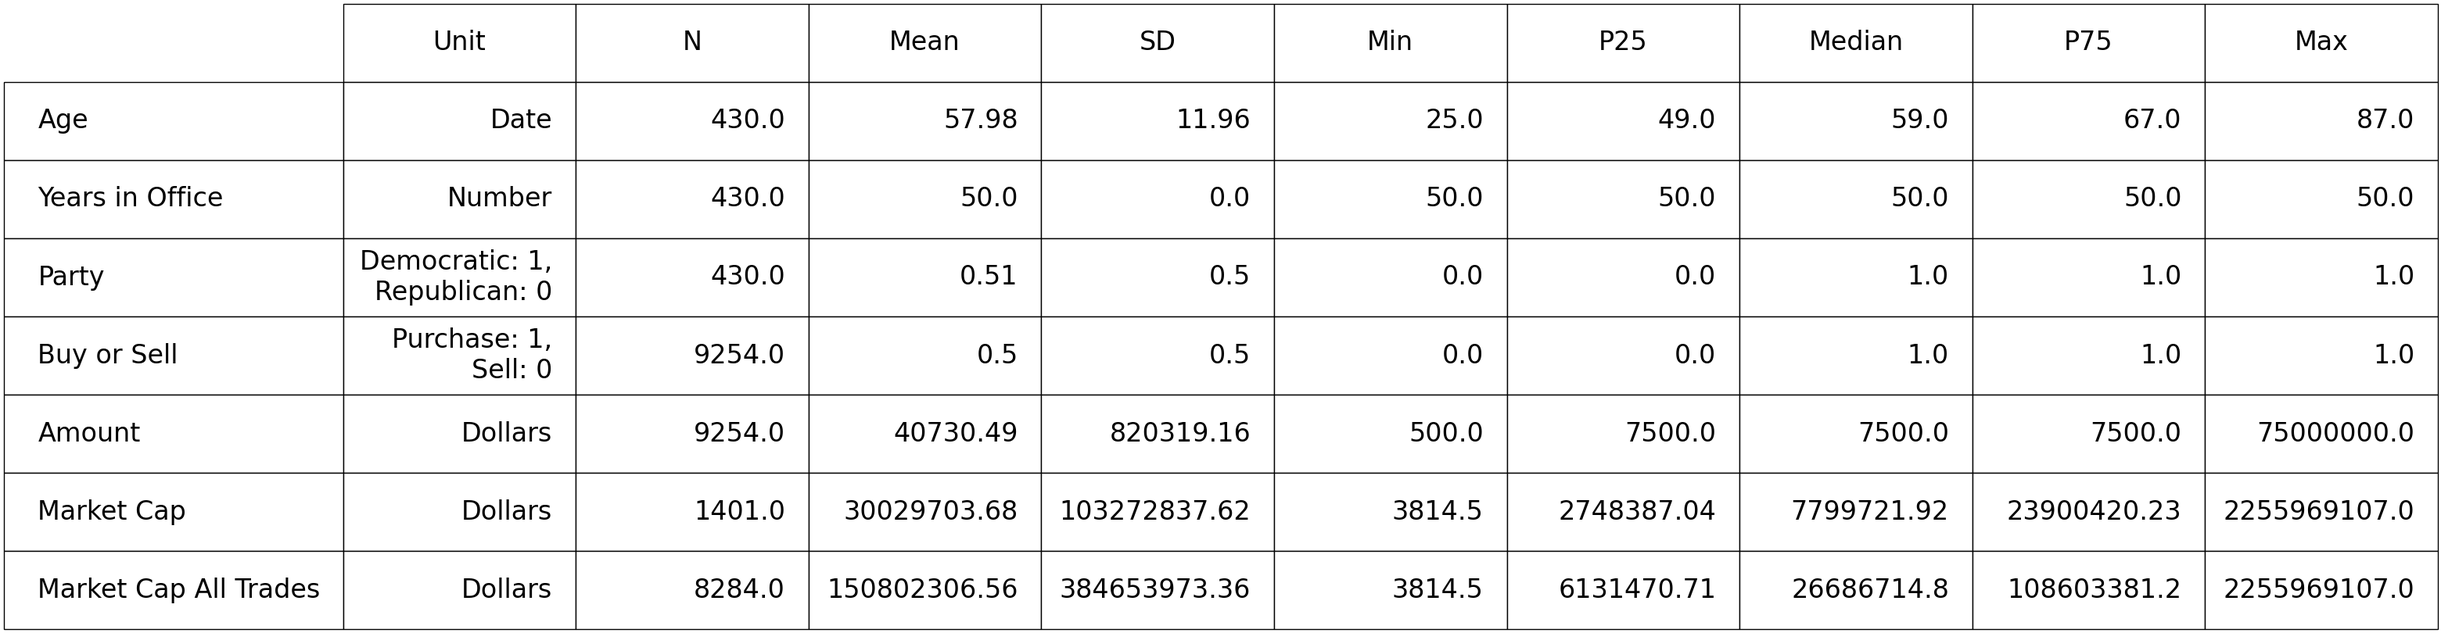
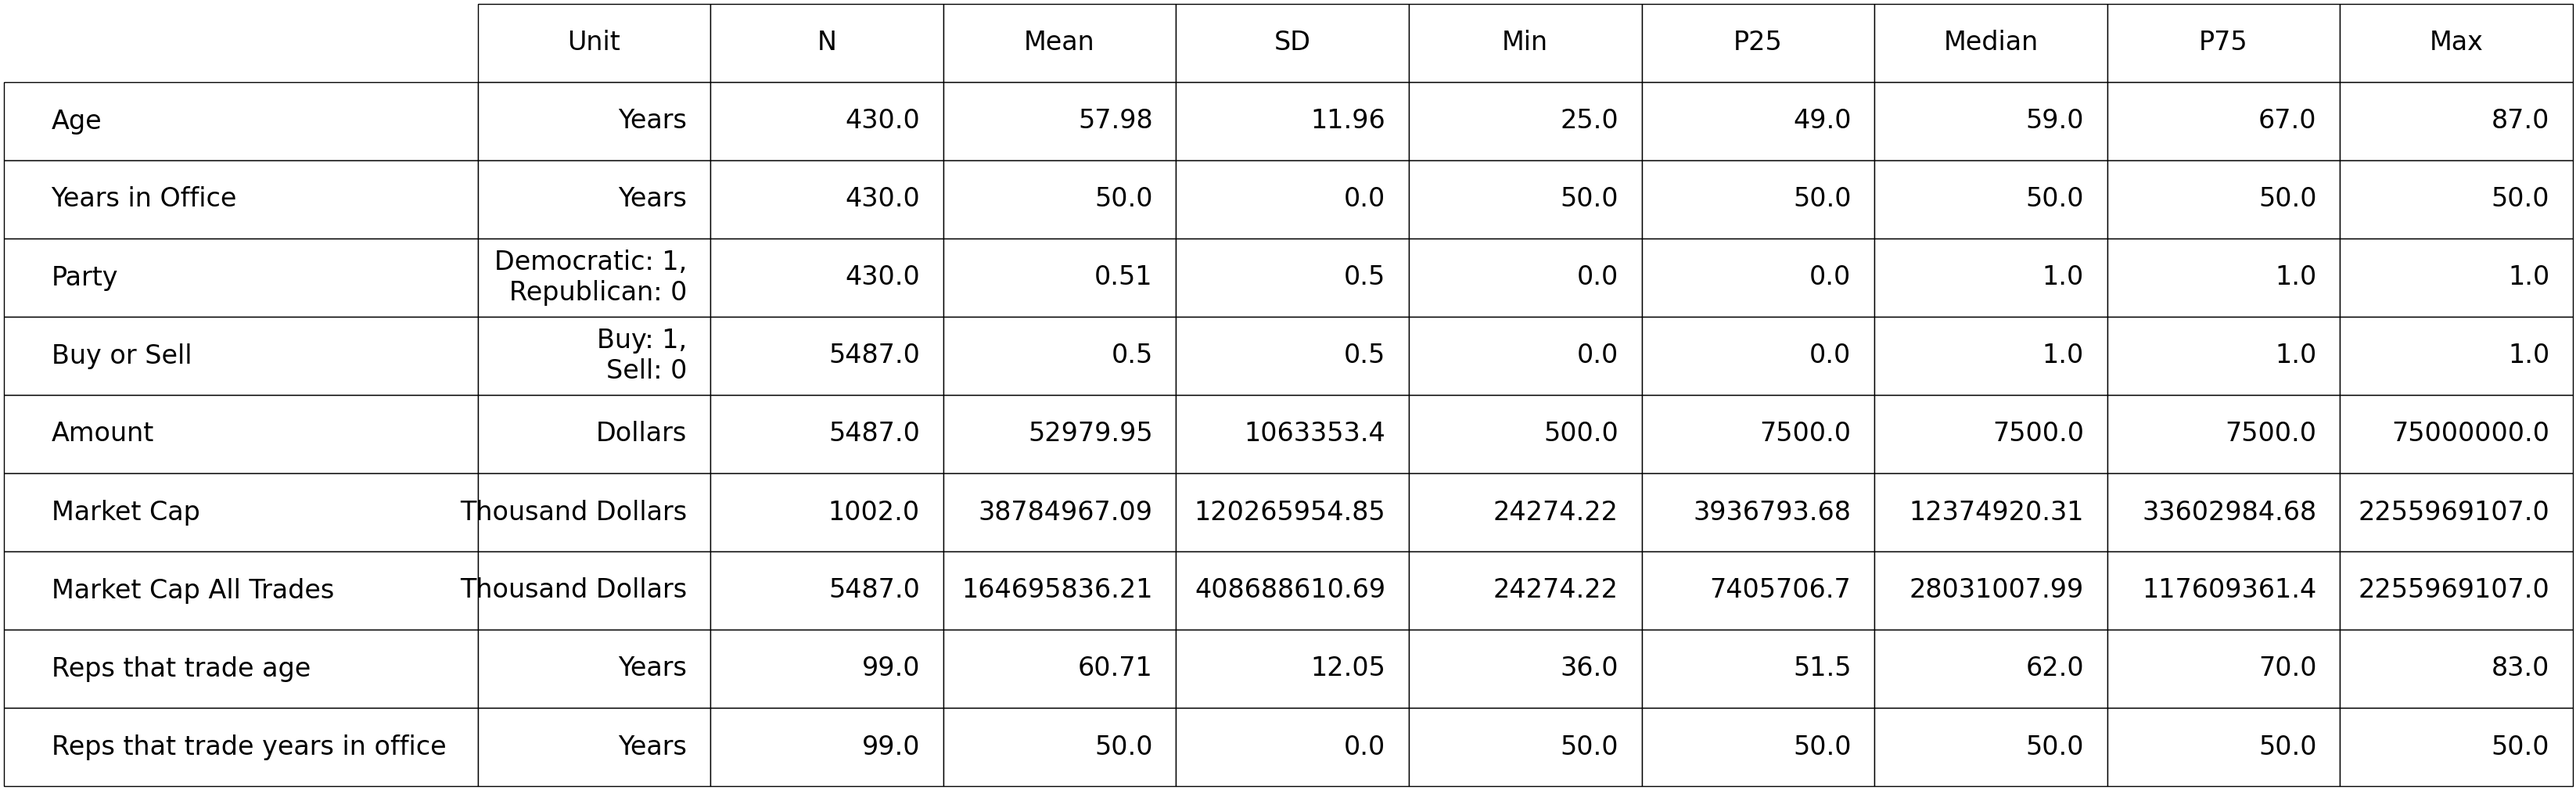
update table 1

Changed region(s): [[0.0, 0.0, 1.0, 1.0]]

diff --git a/david_yirui_sophie/table1.py b/david_yirui_sophie/table1.py
@@ -8,11 +8,12 @@ fig = plt.figure()
 ax = fig.add_subplot(111)
 col_labels = ['Unit', 'N', 'Mean', 'SD', 'Min', 'P25', 'Median', 'P75', 'Max']
 # row_labels = ['Age', 'Buy or Sell', 'Years in Office', 'Party']
-row_labels = ['Age', 'Years in Office', 'Party', 'Buy or Sell', 'Amount', 'Market Cap', 'Market Cap All Trades']
+row_labels = ['Age', 'Years in Office', 'Party', 'Buy or Sell', 'Amount', 'Market Cap Unique Tickers', 'Market Cap All Trades', 'Senators that trade age', 'Senators that trade years in office']
 table_vals = []
 
 senate_transactions = pd.read_csv('senate_transactions.csv')
 senate_members = pd.read_csv('senate_members.csv')
+senate_returns = pd.read_csv('senate_returns.csv')
 market_cap = pd.read_csv('MarketCap_Dec31_2020.csv')
 
 senate_transactions = senate_transactions[senate_transactions.apply(lambda x: x['ticker'] != '--', axis=1)]
@@ -23,30 +24,47 @@ pd.set_option('display.max_columns', None)
 # print(senate_transactions.describe(include='all'))
 # print(senate_transactions.dtypes)
 
+senate_members['Senator'] = senate_members['Senator'].str.split(' ').str[0] + senate_members['Senator'].str.split(' ').str[-1]
+senate_transactions['senator'] = senate_transactions['senator'].str.split(' ').str[0] + senate_transactions['senator'].str.split(' ').str[-1]
+
 senate_members = senate_members[senate_members.apply(lambda x: x['Party'] == 'Democratic' or x['Party'] == 'Republican', axis=1)]
 
 end_date = datetime.date(2020, 12, 31)
 
+# age
 # time_difference = end_date - birth_date
 senate_members['Born'] = pd.to_datetime(senate_members['Born'])
 senate_members['today'] = '2021-05-31'
 senate_members['today'] = pd.to_datetime(senate_members['today'])
 senate_members['age'] = np.floor((senate_members['today'] - senate_members['Born']).dt.days / 365.2425)
-table_vals.append(['Date'] + np.round(senate_members.describe()['age'].values, decimals=2).tolist())
+
+senate_returns['Born'] = pd.to_datetime(senate_returns['Born'])
+senate_returns['today'] = '2021-05-31'
+senate_returns['today'] = pd.to_datetime(senate_returns['today'])
+senate_returns['age'] = np.floor((senate_returns['today'] - senate_returns['Born']).dt.days / 365.2425)
+
+table_vals.append(['Years'] + np.round(senate_members.describe()['age'].values, decimals=2).tolist())
 
 # years in office
 senate_members['Assumed office'] = pd.to_datetime(senate_members['Assumed office'])
 senate_members['Years in office'] = np.floor((senate_members['today'] - senate_members['Assumed office']).dt.days / 365.2425)
-table_vals.append(['Number'] + np.round(senate_members.describe()['Years in office'].values, decimals=2).tolist())
+
+senate_returns['Assumed office'] = pd.to_datetime(senate_returns['Assumed office'])
+senate_returns['Years in office'] = np.floor((senate_returns['today'] - senate_returns['Assumed office']).dt.days / 365.2425)
+
+table_vals.append(['Years'] + np.round(senate_members.describe()['Years in office'].values, decimals=2).tolist())
 
 # party
 senate_members['Party'] = senate_members['Party'].map({'Democratic': 1, 'Republican': 0})
 table_vals.append(['Democratic: 1,\nRepublican: 0'] + np.round(senate_members.describe()['Party'].values, decimals=2).tolist())
 
-# direction
+senate_transactions = senate_transactions.merge(senate_members, left_on='senator', right_on='Senator')
+print('Proportion democratic trades:', np.sum(senate_transactions['Party']) / len(senate_transactions['Party']))
+
+# buy or sell
 senate_transactions['direction'] = senate_transactions['type'].map(lambda x: 1 if x == 'Purchase' else 0)
 # print(senate_transactions['direction'])
-table_vals.append(['Purchase: 1,\nSell: 0'] + np.round(senate_transactions.describe()['direction'].values, decimals=2).tolist())
+print('Proportion of buys:', np.sum(senate_transactions['direction']) / len(senate_transactions['direction']))
 
 # amount
 senate_transactions = senate_transactions[senate_transactions.apply(lambda x: x['amount'] != 'Unknown', axis=1)]
@@ -63,22 +81,27 @@ amount_map = {
     'Over $50,000,000': 75000000
 }
 senate_transactions['amount_val'] = senate_transactions['amount'].map(lambda x: amount_map[x])
-table_vals.append(['Dollars'] + np.round(senate_transactions.describe()['amount_val'].values, decimals=2).tolist())
 
 # market cap for unique stocks
 senate_tickers = senate_transactions['ticker'].unique()
 market_cap['Market Cap'] = np.abs(market_cap['Market Cap'])
 market_caps = pd.DataFrame({'ticker': senate_tickers})
 market_caps = market_caps.merge(market_cap, left_on='ticker', right_on='ticker')
-table_vals.append(['Dollars'] + np.round(market_caps.describe()['Market Cap'].values, decimals=2).tolist())
-
 
 # market cap for each transaction
 market_cap['Market Cap'] = np.abs(market_cap['Market Cap'])
 senate_transactions = senate_transactions.merge(market_cap, left_on='ticker', right_on='ticker')
-table_vals.append(['Dollars'] + np.round(senate_transactions.describe()['Market Cap'].values, decimals=2).tolist())
 
+# senators that trade
+senators_that_trade = senate_returns.groupby('senator').first()
 
+# add data to table
+table_vals.append(['Buy: 1,\nSell: 0'] + np.round(senate_transactions.describe()['direction'].values, decimals=2).tolist())
+table_vals.append(['Dollars'] + np.round(senate_transactions.describe()['amount_val'].values, decimals=2).tolist())
+table_vals.append(['Thousand Dollars'] + np.round(market_caps.describe()['Market Cap'].values, decimals=2).tolist())
+table_vals.append(['Thousand Dollars'] + np.round(senate_transactions.describe()['Market Cap'].values, decimals=2).tolist())
+table_vals.append(['Years'] + np.round(senators_that_trade.describe()['Age'].values, decimals=2).tolist())
+table_vals.append(['Years'] + np.round(senators_that_trade.describe()['Years in office'].values, decimals=2).tolist())
 
 # Draw table
 the_table = plt.table(cellText=table_vals,

diff --git a/david_yirui_sophie/table1_house.py b/david_yirui_sophie/table1_house.py
@@ -8,11 +8,12 @@ fig = plt.figure()
 ax = fig.add_subplot(111)
 col_labels = ['Unit', 'N', 'Mean', 'SD', 'Min', 'P25', 'Median', 'P75', 'Max']
 # row_labels = ['Age', 'Buy or Sell', 'Years in Office', 'Party']
-row_labels = ['Age', 'Years in Office', 'Party', 'Buy or Sell', 'Amount', 'Market Cap', 'Market Cap All Trades']
+row_labels = ['Age', 'Years in Office', 'Party', 'Buy or Sell', 'Amount', 'Market Cap', 'Market Cap All Trades', 'Reps that trade age', 'Reps that trade years in office']
 table_vals = []
 
 house_transactions = pd.read_csv('house_transactions.csv')
 house_members = pd.read_csv('house_members.csv')
+house_returns = pd.read_csv('house_returns.csv')
 market_cap = pd.read_csv('MarketCap_Dec31_2020.csv')
 
 house_transactions = house_transactions[house_transactions.apply(lambda x: x['ticker'] != '--', axis=1)]
@@ -20,30 +21,46 @@ house_transactions = house_transactions[house_transactions.apply(lambda x: x['ti
 pd.set_option('display.max_rows', None)  
 pd.set_option('display.max_columns', None)  
 
+house_members['name'] = house_members['name'].str.split(' ').str[0] + house_members['name'].str.split(' ').str[-1]
+house_transactions['representative'] = house_transactions['representative'].str.split(' ').str[1] + house_transactions['representative'].str.split(' ').str[-1]
+
 house_members = house_members[house_members.apply(lambda x: x['Party'] == 'Democratic' or x['Party'] == 'Republican', axis=1)]
 
 end_date = datetime.date(2020, 12, 31)
 
+#age
 # time_difference = end_date - birth_date
 house_members['Born'] = pd.to_datetime(house_members['Born'])
 house_members['today'] = '2021-05-31'
 house_members['today'] = pd.to_datetime(house_members['today'])
 house_members['age'] = np.floor((house_members['today'] - house_members['Born']).dt.days / 365.2425)
-table_vals.append(['Date'] + np.round(house_members.describe()['age'].values, decimals=2).tolist())
+
+house_returns['born'] = pd.to_datetime(house_returns['born'])
+house_returns['today'] = '2021-05-31'
+house_returns['today'] = pd.to_datetime(house_returns['today'])
+house_returns['age'] = np.floor((house_returns['today'] - house_returns['born']).dt.days / 365.2425)
+
+table_vals.append(['Years'] + np.round(house_members.describe()['age'].values, decimals=2).tolist())
 
 # years in office
 house_members['Assumed office'] = pd.to_datetime(house_members['Assumed office'])
 house_members['Years in office'] = 2020 - house_members['Assumed office'].dt.year
-table_vals.append(['Number'] + np.round(house_members.describe()['Years in office'].values, decimals=2).tolist())
+
+house_returns['assumed_office'] = pd.to_datetime(house_returns['assumed_office'])
+house_returns['Years in office'] = 2020 - house_returns['assumed_office'].dt.year
+
+table_vals.append(['Years'] + np.round(house_members.describe()['Years in office'].values, decimals=2).tolist())
 
 # party
 house_members['Party'] = house_members['Party'].map({'Democratic': 1, 'Republican': 0})
 table_vals.append(['Democratic: 1,\nRepublican: 0'] + np.round(house_members.describe()['Party'].values, decimals=2).tolist())
 
+house_transactions = house_transactions.merge(house_members, left_on='representative', right_on='name')
+print('Proportion democratic trades:', np.sum(house_transactions['Party']) / len(house_transactions['Party']))
+
 # direction
 house_transactions['direction'] = house_transactions['type'].map(lambda x: 1 if x == 'purchase' else 0)
-# print(senate_transactions['direction'])
-table_vals.append(['Purchase: 1,\nSell: 0'] + np.round(house_transactions.describe()['direction'].values, decimals=2).tolist())
+print('Proportion of buys:', np.sum(house_transactions['direction']) / len(house_transactions['direction']))
 
 # amount
 house_transactions = house_transactions[house_transactions.apply(lambda x: x['amount'] != 'Unknown', axis=1)]
@@ -60,24 +77,28 @@ amount_map = {
     '$25,000,001 - $50,000,000': 37500000,
     '$50,000,000 +': 75000000
 }
-print(house_transactions['amount'].unique())
 house_transactions['amount_val'] = house_transactions['amount'].map(lambda x: amount_map[x])
-table_vals.append(['Dollars'] + np.round(house_transactions.describe()['amount_val'].values, decimals=2).tolist())
 
 # market cap for unique stocks
 house_tickers = house_transactions['ticker'].unique()
 market_cap['Market Cap'] = np.abs(market_cap['Market Cap'])
 market_caps = pd.DataFrame({'ticker': house_tickers})
 market_caps = market_caps.merge(market_cap, left_on='ticker', right_on='ticker')
-table_vals.append(['Dollars'] + np.round(market_caps.describe()['Market Cap'].values, decimals=2).tolist())
-
 
 # market cap for each transaction
 market_cap['Market Cap'] = np.abs(market_cap['Market Cap'])
 house_transactions = house_transactions.merge(market_cap, left_on='ticker', right_on='ticker')
-table_vals.append(['Dollars'] + np.round(house_transactions.describe()['Market Cap'].values, decimals=2).tolist())
 
+# representatives that trade
+reps_that_trade = house_returns.groupby('representative').first()
 
+# add data to table
+table_vals.append(['Buy: 1,\nSell: 0'] + np.round(house_transactions.describe()['direction'].values, decimals=2).tolist())
+table_vals.append(['Dollars'] + np.round(house_transactions.describe()['amount_val'].values, decimals=2).tolist())
+table_vals.append(['Thousand Dollars'] + np.round(market_caps.describe()['Market Cap'].values, decimals=2).tolist())
+table_vals.append(['Thousand Dollars'] + np.round(house_transactions.describe()['Market Cap'].values, decimals=2).tolist())
+table_vals.append(['Years'] + np.round(reps_that_trade.describe()['age'].values, decimals=2).tolist())
+table_vals.append(['Years'] + np.round(reps_that_trade.describe()['Years in office'].values, decimals=2).tolist())
 
 # Draw table
 the_table = plt.table(cellText=table_vals,
